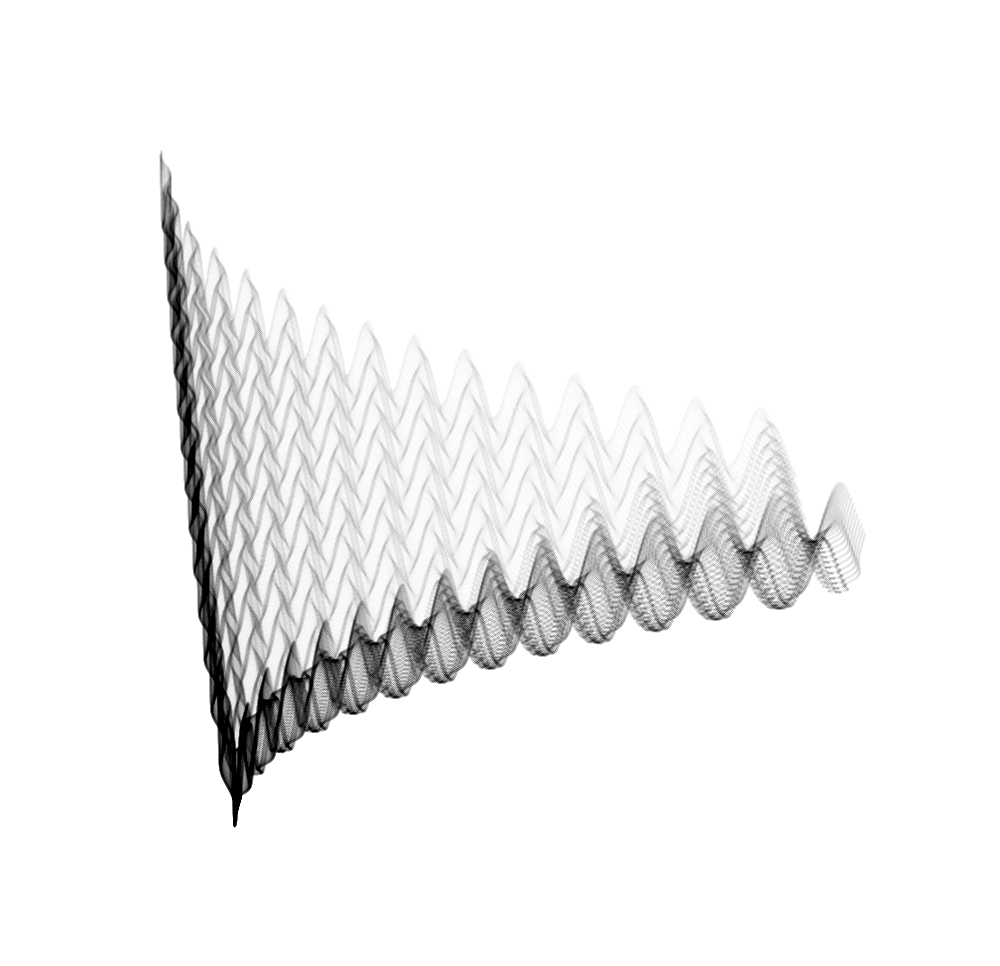
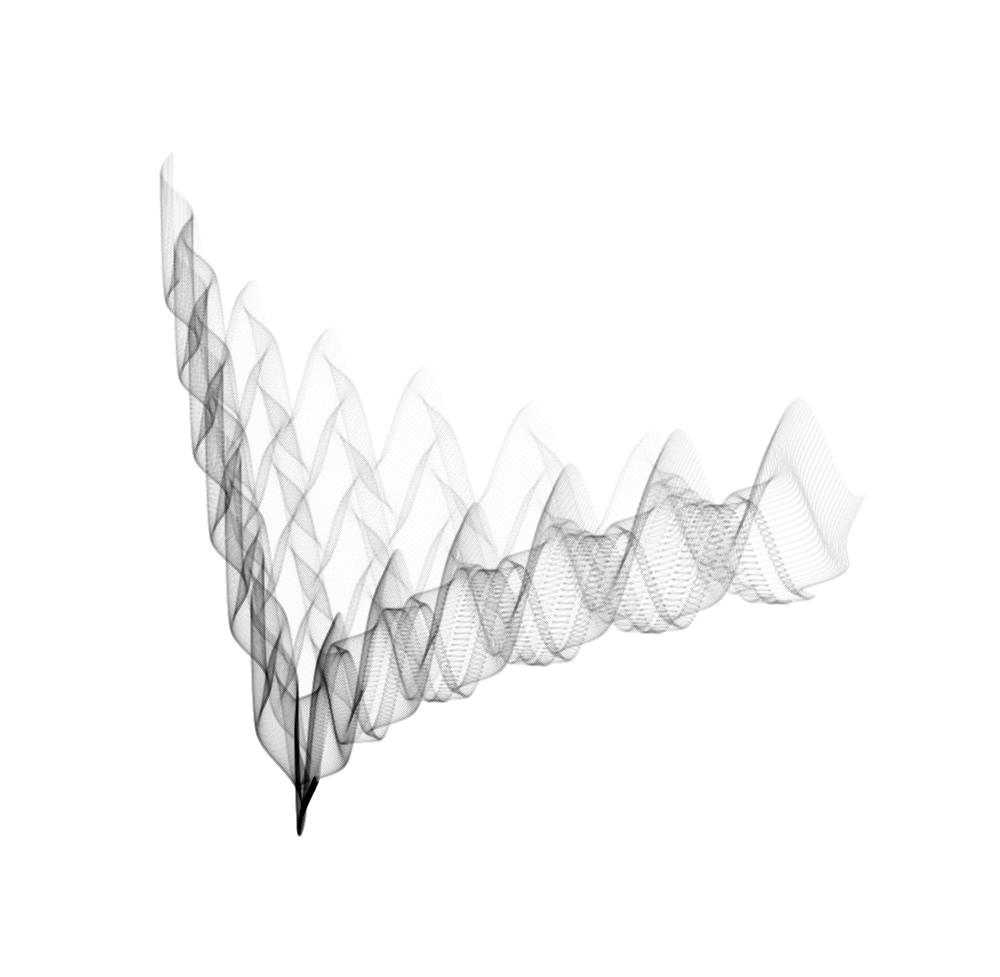
Minor edits (#86)
* update : 3.png updated.

* update : pictures updated.

* revert : images reverted.

* update : README.md updated.

* update : README.md updated.

Changed region(s): [[0.155, 0.1553, 0.868, 0.8696]]

diff --git a/README.md b/README.md
@@ -114,13 +114,13 @@ Samila is a generative art generator written in Python, Samila let's you create 
 ```pycon
 >>> import random
 >>> import math
->>> def f1(x,y):
+>>> def f1(x, y):
     result = random.uniform(-1,1) * x**2  - math.sin(y**2) + abs(y-x)
     return result
->>> def f2(x,y):
+>>> def f2(x, y):
     result = random.uniform(-1,1) * y**3 - math.cos(x**2) + 2*x
     return result
->>> g = GenerativeImage(f1,f2)
+>>> g = GenerativeImage(f1, f2)
 >>> g.generate()
 >>> g.plot()
 >>> g.seed
@@ -132,7 +132,7 @@ Samila is a generative art generator written in Python, Samila let's you create 
 ### Projection
 ```pycon
 >>> from samila import Projection
->>> g = GenerativeImage(f1,f2)
+>>> g = GenerativeImage(f1, f2)
 >>> g.generate()
 >>> g.plot(projection=Projection.POLAR)
 >>> g.seed
@@ -146,8 +146,8 @@ Samila is a generative art generator written in Python, Samila let's you create 
 
 ### Range
 ```pycon
->>> g = GenerativeImage(f1,f2)
->>> g.generate(start = -2*math.pi,step=0.1,stop=0)
+>>> g = GenerativeImage(f1, f2)
+>>> g.generate(start=-2*math.pi, step=0.01, stop=0)
 >>> g.plot()
 >>> g.seed
 234752
@@ -157,9 +157,9 @@ Samila is a generative art generator written in Python, Samila let's you create 
 
 ### Color
 ```pycon
->>> g = GenerativeImage(f1,f2)
+>>> g = GenerativeImage(f1, f2)
 >>> g.generate()
->>> g.plot(color="yellow",bgcolor="black",projection=Projection.POLAR)
+>>> g.plot(color="yellow", bgcolor="black", projection=Projection.POLAR)
 >>> g.seed
 1018273
 >>> plt.show()
@@ -171,7 +171,7 @@ Samila is a generative art generator written in Python, Samila let's you create 
 
 ### Regeneration
 ```pycon
->>> g = GenerativeImage(f1,f2)
+>>> g = GenerativeImage(f1, f2)
 >>> g.generate(seed=1018273)
 >>> g.plot(projection=Projection.POLAR)
 >>> plt.show()
@@ -182,7 +182,7 @@ Samila is a generative art generator written in Python, Samila let's you create 
 Upload generated image directly to [NFT.storage](https://NFT.storage)
 
 ```pycon
->>> g.nft_storage(api_key = YOUR_API_KEY)
+>>> g.nft_storage(api_key=YOUR_API_KEY)
 {'status': True, 'message': 'Everything seems good'}
 ```
 
@@ -237,10 +237,10 @@ We have set of points in the first space (left square) which can be define as fo
 And bellow functions are used for transformation:
 
 ```pycon
->>> def f1(x,y):
-    result = random.uniform(-1,1) * x**2  - math.sin(y**2) + abs(y-x)
+>>> def f1(x, y):
+    result = random.uniform(-1,1) * x**2 - math.sin(y**2) + abs(y-x)
     return result
->>> def f2(x,y):
+>>> def f2(x, y):
     result = random.uniform(-1,1) * y**3 - math.cos(x**2) + 2*x
     return result
 ```
@@ -250,7 +250,7 @@ And bellow functions are used for transformation:
 here we uses `Projection.POLAR` so later space will be the polar space and we have:
 
 ```pycon
->>> g = GenerativeImage(f1,f2)
+>>> g = GenerativeImage(f1, f2)
 >>> g.generate(seed=10)
 >>> g.plot(projection=Projection.POLAR)
 ```

diff --git a/CHANGELOG.md b/CHANGELOG.md
@@ -22,6 +22,7 @@ and this project adheres to [Semantic Versioning](http://semver.org/spec/v2.0.0.
 - `function1_str` attribute
 - `function2_str` attribute
 ### Changed
+- `README.md` updated
 - `plot` section added to data file
 - `edgecolor` changed to `c` in `plot` method
 - `config` parameter added to GenerativeImage `__init__`
